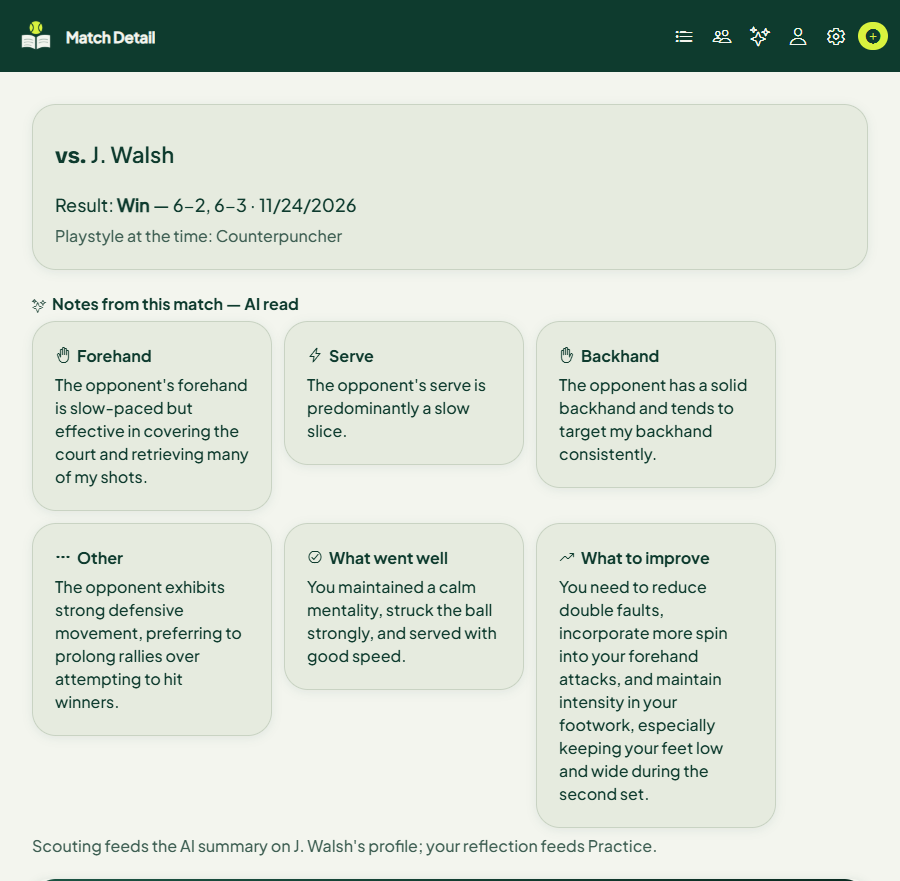
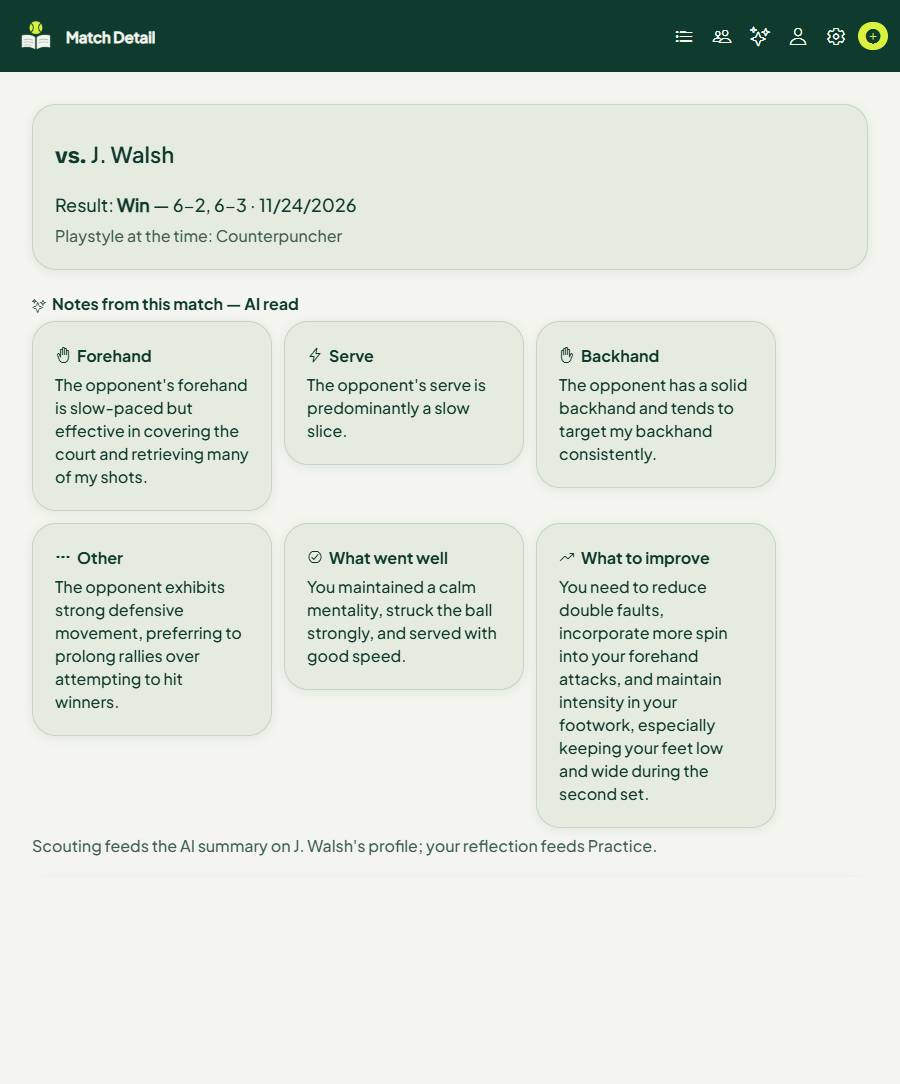
Make the before/after journal images the same size
The journal photo and app screenshot had different native aspect
ratios, so their display boxes didn't line up. Trimmed the small blank
margin off the bottom of the journal photo and extended the
screenshot's own flat page background to match, so both end up the
same final aspect ratio and share one style instead of two.

Changed region(s): [[0.0311, 0.1226, 0.84, 0.9194], [0.0311, 0.9501, 0.9333, 1.0], [0.0, 0.0, 1.0, 0.0919]]

diff --git a/matchmind-app/src/app/index.tsx b/matchmind-app/src/app/index.tsx
@@ -362,7 +362,7 @@ export default function Index() {
                   </ThemedText>
                   <Image
                     source={require('../../assets/images/journal-before.jpg')}
-                    style={[styles.journalImage, { borderColor: theme.border }]}
+                    style={[styles.beforeAfterImage, { borderColor: theme.border }]}
                     resizeMode="contain"
                   />
                 </ThemedView>
@@ -376,7 +376,7 @@ export default function Index() {
                   </ThemedText>
                   <Image
                     source={require('../../assets/images/journal-after.png')}
-                    style={[styles.appImage, { borderColor: theme.border }]}
+                    style={[styles.beforeAfterImage, { borderColor: theme.border }]}
                     resizeMode="contain"
                   />
                 </ThemedView>
@@ -607,17 +607,12 @@ const styles = StyleSheet.create({
   },
   beforeAfterItem: { alignItems: 'center', gap: Spacing.two },
   beforeAfterLabel: { letterSpacing: 1.5 },
-  // Heights derived from each image's real aspect ratio (journal photo
-  // 2781x3500, app screenshot 900x881) so "contain" never letterboxes.
-  journalImage: {
+  // Both source images are cropped/padded to the same 2781x3350-equivalent
+  // aspect ratio (see assets/images/journal-before.jpg, journal-after.png),
+  // so both boxes below are deliberately the exact same size.
+  beforeAfterImage: {
     width: 280,
-    height: 352,
-    borderRadius: Radius.large,
-    borderWidth: 1,
-  },
-  appImage: {
-    width: 280,
-    height: 274,
+    height: 337,
     borderRadius: Radius.large,
     borderWidth: 1,
   },
